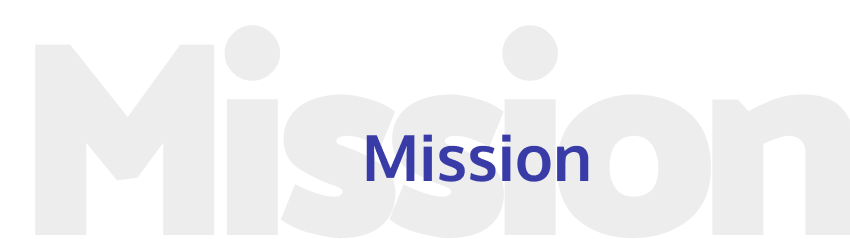
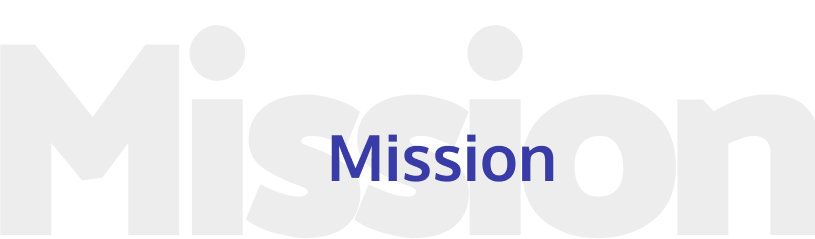
fox

Changed region(s): [[0.3988, 0.5565, 0.7055, 0.7615]]

diff --git a/about.html b/about.html
@@ -250,7 +250,9 @@
             </p>
           </div>
           -->
-          <div class="col-span-2 flex items-center justify-center vm-img-wrap">
+          <div
+            class="xl:col-span-2 flex items-center justify-center vm-img-wrap"
+          >
             <img
               src="./assets/images/vision.png"
               alt="NDIC Vision"
@@ -259,7 +261,7 @@
           </div>
           <div
             id="vision-text"
-            class="col-span-3 bg-brand-mid px-10 lg:py-16 md:py-12 py-8 xl:py-20 xl:rounded-tl-3xl"
+            class="xl:col-span-3 bg-brand-mid px-10 lg:py-16 md:py-12 py-8 xl:py-20 xl:rounded-tl-3xl"
           >
             <p
               class="font-body text-white text-xl sm:text-2xl md:text-3xl lg:text-4xl xl:text-5xl"
@@ -278,7 +280,7 @@
         <div class="grid grid-cols-1 gap-10 xl:gap-0 xl:grid-cols-5">
           <div
             id="mission-text"
-            class="col-span-3 order-2 xl:order-1 bg-brand-mid px-6 sm:px-8 md:px-10 lg:px-12 xl:px-14 lg:py-16 md:py-12 py-8 xl:py-20 xl:rounded-br-3xl"
+            class="xl:col-span-3 order-2 xl:order-1 bg-brand-mid px-6 sm:px-8 md:px-10 lg:px-12 xl:px-14 lg:py-16 md:py-12 py-8 xl:py-20 xl:rounded-br-3xl"
           >
             <p class="font-body text-white md:text-2xl text-lg lg:text-3xl">
               To protect depositors and contribute to the stability of the
@@ -312,7 +314,7 @@
           </div>
           -->
           <div
-            class="col-span-2 order-1 xl:order-2 flex items-center justify-center vm-img-wrap"
+            class="xl:col-span-2 order-1 xl:order-2 flex items-center justify-center vm-img-wrap"
           >
             <img
               src="./assets/images/mission.png"

diff --git a/css/tailwind.css b/css/tailwind.css
@@ -2523,6 +2523,14 @@ video {
     order: 2;
   }
 
+  .xl\:col-span-2 {
+    grid-column: span 2 / span 2;
+  }
+
+  .xl\:col-span-3 {
+    grid-column: span 3 / span 3;
+  }
+
   .xl\:ml-14 {
     margin-left: 3.5rem;
   }
